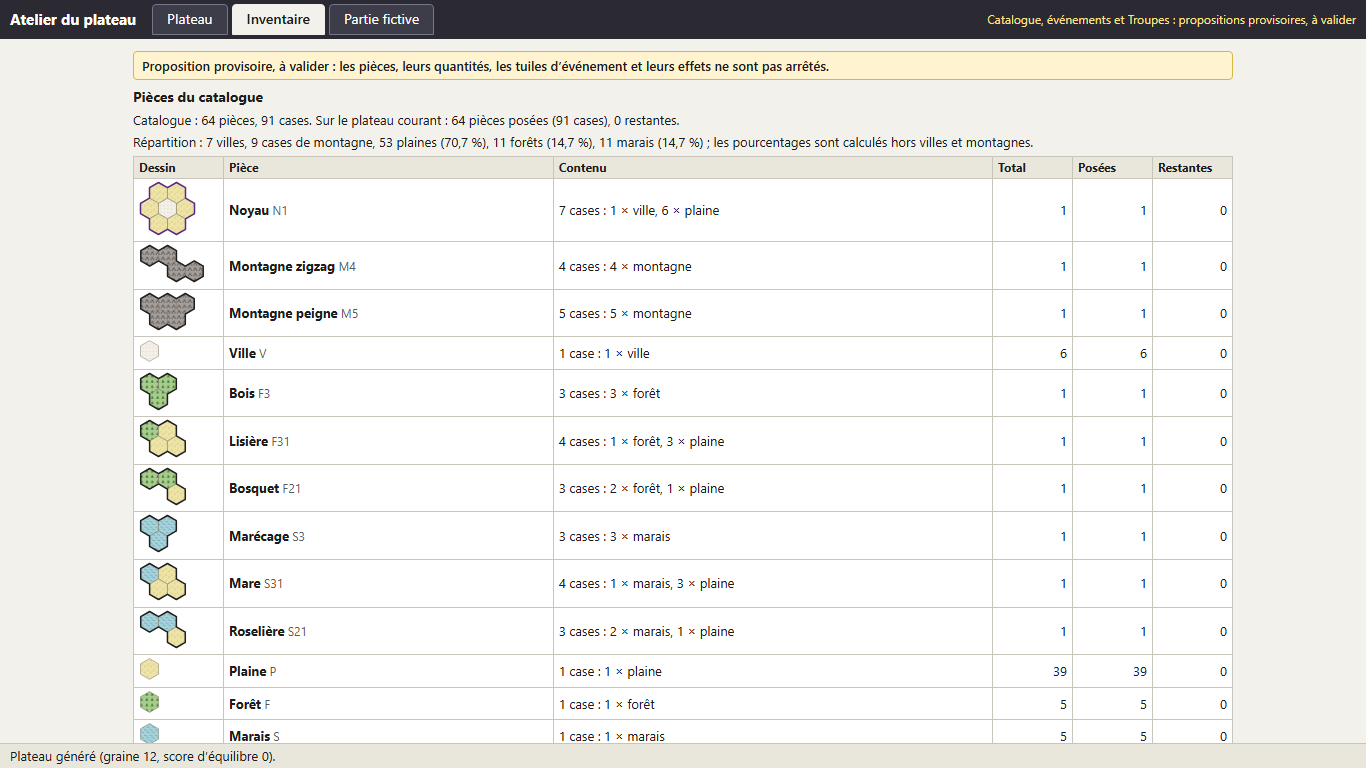
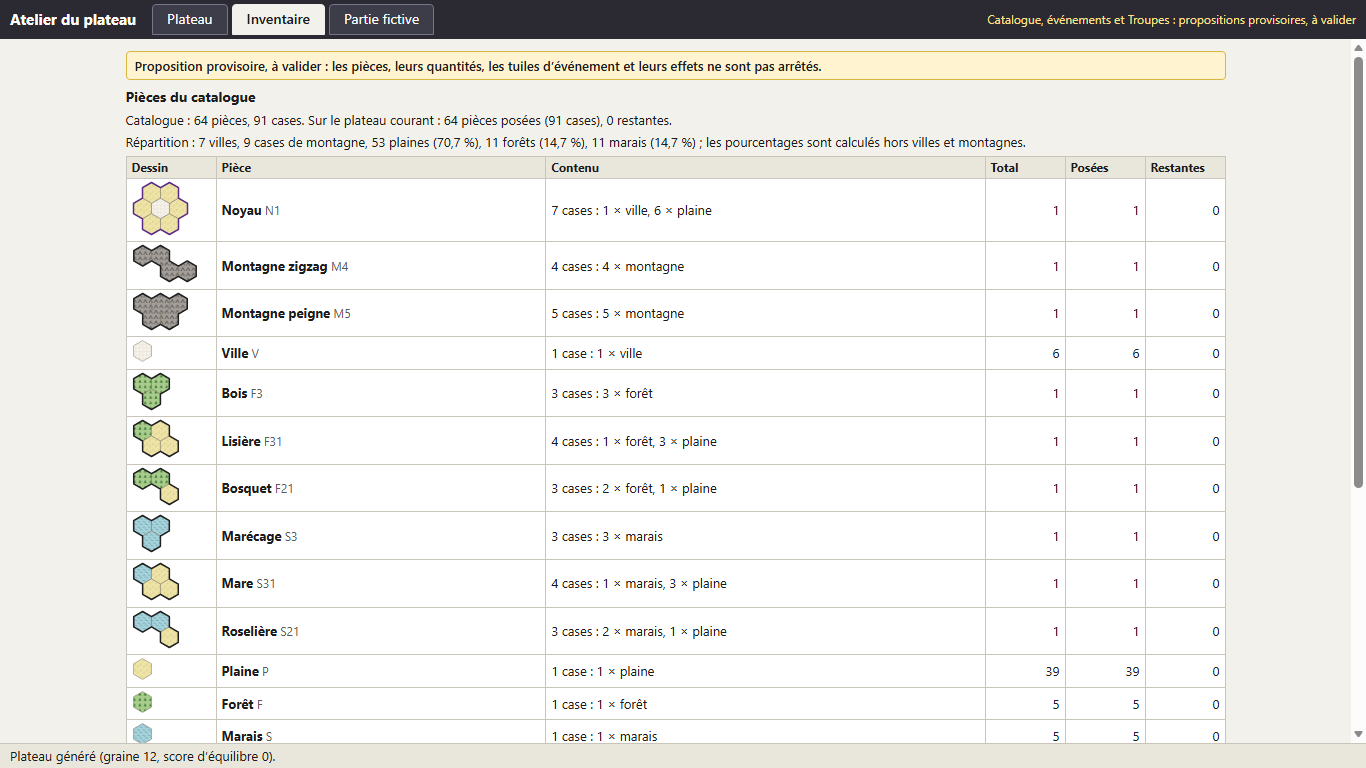
Atelier : mesure de contact par défaut « pièces » (lecture littérale de « 3 autres tuiles ») ; captures à jour

diff --git a/atelier/tests/generateur.test.js b/atelier/tests/generateur.test.js
@@ -94,11 +94,11 @@ for (const options of COMBINAISONS) {
   });
 }
 
-test('réglage par défaut : seuil 3, mesure « côtés »', () => {
+test('réglage par défaut : seuil 3, mesure « pièces »', () => {
   const res = G.generer(3);
   assert.ok(res.ok, res.raison);
-  verifierPlateau(res, { seuilContact: 3, mesureContact: 'cotes' });
-  assert.deepStrictEqual(G.generer(3, { seuilContact: 3, mesureContact: 'cotes' }).plateau, res.plateau);
+  verifierPlateau(res, { seuilContact: 3, mesureContact: 'pieces' });
+  assert.deepStrictEqual(G.generer(3, { seuilContact: 3, mesureContact: 'pieces' }).plateau, res.plateau);
 });
 
 test('les plateaux générés ne sont pas tous l’hexagone régulier : la forme du bord varie', () => {

diff --git a/atelier/src/catalogue.js b/atelier/src/catalogue.js
@@ -97,7 +97,7 @@ var AT = (typeof globalThis !== 'undefined' ? globalThis : window).AT = ((typeof
     // A6 : chaque tuile touche au moins `seuilContact` autres tuiles, selon la mesure retenue.
     seuilContact: 3,
     seuilsContact: [2, 3],
-    mesureContact: 'cotes',                 // 'cotes' (cases voisines occupées par une autre pièce) ou 'pieces' (pièces voisines distinctes)
+    mesureContact: 'pieces',                // 'cotes' (cases voisines occupées par une autre pièce) ou 'pieces' (pièces voisines distinctes)
     mesuresContact: ['cotes', 'pieces'],
     // Villes.
     nombreVilles: 7,

diff --git a/atelier/tests/catalogue.test.js b/atelier/tests/catalogue.test.js
@@ -87,7 +87,7 @@ test('réglages provisoires regroupés : coûts, contact, villes', () => {
   const R = C.REGLAGES;
   assert.deepStrictEqual([R.couts.plaine, R.couts.foret, R.couts.marais, R.couts.ville, R.couts.montagne], [1, 2, 2, 1, null]);
   assert.strictEqual(R.seuilContact, 3);
-  assert.strictEqual(R.mesureContact, 'cotes');
+  assert.strictEqual(R.mesureContact, 'pieces');
   assert.deepStrictEqual(R.seuilsContact, [2, 3]);
   assert.deepStrictEqual(R.mesuresContact, ['cotes', 'pieces']);
   assert.strictEqual(R.nombreVilles, 7);

diff --git a/docs/02-atelier-cahier-des-charges.md b/docs/02-atelier-cahier-des-charges.md
@@ -59,7 +59,7 @@ Chaque contrôle renvoie `{regle, niveau ('erreur' | 'alerte' | 'info'), message
 2. Pas de chevauchement ; plateau d'un seul tenant ; toutes les cases franchissables reliées entre elles. Un **trou** dans le plateau (zone vide fermée) est signalé en alerte (réglage `REGLAGES.trous` ; ajout de la revue, la règle revient à l'utilisateur).
 3. A2 : aucune ville dans un monobloc hors noyau. Noyau présent, centré en (0,0).
 4. Villes : 7 ; écart ≥ 4 pas entre toutes les paires (par les cases franchissables) ; 2 villes sur la rangée du haut, 2 sur la rangée du bas ; ce sont bien les deux villes les plus proches de chaque côté, sans égalité avec une troisième.
-5. A6, contact : seuil paramétré (3 par défaut). Deux mesures, toutes deux calculées et affichées : **côtés** (nombre de cases voisines occupées par une autre pièce) et **pièces** (nombre de pièces voisines distinctes). La mesure retenue par défaut est « côtés » (provisoire).
+5. A6, contact : seuil paramétré (3 par défaut). Deux mesures, toutes deux calculées et affichées : **côtés** (nombre de cases voisines occupées par une autre pièce) et **pièces** (nombre de pièces voisines distinctes). La mesure retenue par défaut est « pièces » : c’est la lecture littérale de « 3 autres tuiles », et elle implique aussi 3 côtés ; « côtés » reste au choix.
 6. Équilibre : pour chaque ville, coût minimal en rations depuis les villes de déploiement de Vert et depuis celles de Rouge ; score = somme des écarts entre une ville et sa symétrique vue de l'autre camp (0 = parfaitement équilibré). Répartition des terrains (%).
 7. Événements posés : condition de pose respectée ; pas de coupure du plateau.
 

diff --git a/atelier/README.md b/atelier/README.md
@@ -7,7 +7,7 @@ Le catalogue des pièces, les tuiles d'événement et les Troupes sont des **pro
 ## Onglet « Plateau »
 
 - **Générer** : saisissez une graine (un nombre ou un mot) puis « Générer ». La même graine redonne toujours le même plateau. « Graine suivante » passe au nombre suivant.
-- **Réglages** : seuil de contact (3 tuiles par défaut, ou 2) et mesure (côtés ou pièces voisines). Ils servent au générateur et aux contrôles.
+- **Réglages** : seuil de contact (3 tuiles par défaut, ou 2) et mesure (pièces voisines distinctes par défaut, ou côtés). Ils servent au générateur et aux contrôles.
 - **Retoucher à la main** :
   - cliquez une pièce du plateau pour la sélectionner, puis « Tourner » (touche R), « Déplacer » ou « Retirer » (touche Suppr) ;
   - cliquez une pièce du « Stock restant » puis une case pour la poser ; un aperçu suit la souris (rouge si la place est prise) ; R la tourne ; Échap arrête ;
